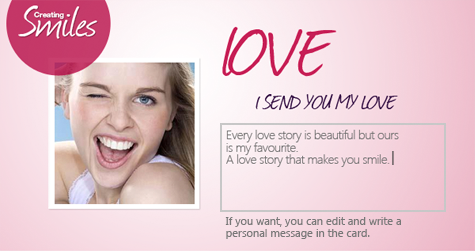
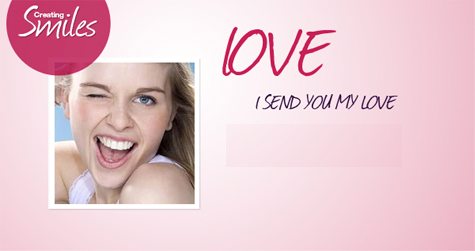
Actualiza Pages:::preview

Changed region(s): [[0.4421, 0.4741, 0.9432, 0.9482]]

diff --git a/css/default.css b/css/default.css
@@ -957,7 +957,8 @@ section.pages.preview div.content div.elements {
   margin-bottom: 10px;
 }
 section.pages.preview div.content div.elements div.element-content {
-  height: 251px;
+  height: 115px;
+  padding: 126px 50px 10px 220px;
   position: relative;
   overflow: hidden;
 }
@@ -982,6 +983,24 @@ section.pages.preview div.content div.elements div.element-content img.photo-smi
   top: 60px;
   width: 139px;
   z-index: 1;
+}
+section.pages.preview div.content div.elements div.element-content p {
+  color: #777777;
+  display: inline-block;
+  font-size: 11px;
+  position: relative;
+  z-index: 4;
+}
+section.pages.preview div.content div.elements div.element-content textarea {
+  background: transparent;
+  border: 1px solid #c6c6c6;
+  color: #777777;
+  height: 71px;
+  margin-bottom: 5px;
+  padding: 5px;
+  position: relative;
+  resize: none;
+  z-index: 4;
 }
 section.pages.preview div.content div.elements div.element-footer {
   background: #fff;

diff --git a/less/default.less b/less/default.less
@@ -1076,7 +1076,8 @@ section.pages {
 				margin-bottom: 10px;
 
 				div.element-content {
-					height: 251px;
+					height: 115px;
+					padding: 126px 50px 10px 220px;
 					position: relative;
 					overflow: hidden;
 
@@ -1105,6 +1106,26 @@ section.pages {
 							width: 139px;
 							z-index: 1;
 						}
+					}
+
+					p {
+						color: #777777;
+						display: inline-block;
+						font-size: 11px;
+						position: relative;
+						z-index: 4;
+					 }
+
+					textarea {
+						background: transparent;
+						border: 1px solid #c6c6c6;
+						color: #777777;
+						height: 71px;
+						margin-bottom: 5px;
+						padding: 5px;
+						position: relative;
+						resize: none;
+						z-index: 4;
 					}
 				}
 

diff --git a/preview.php b/preview.php
@@ -35,6 +35,10 @@
               <img src="img/pages-preview-content-card-bg.png" alt="" class="card-bg">
 
               <img src="img/pages-create-take-photo-thumb.png" alt="" Class="photo-smile">
+
+              <textarea name="message" id="message" cols="19"></textarea>
+
+              <p>If you want, you can edit and write a personal message in the card.</p>
             </div>
 
             <div class="element-footer">
